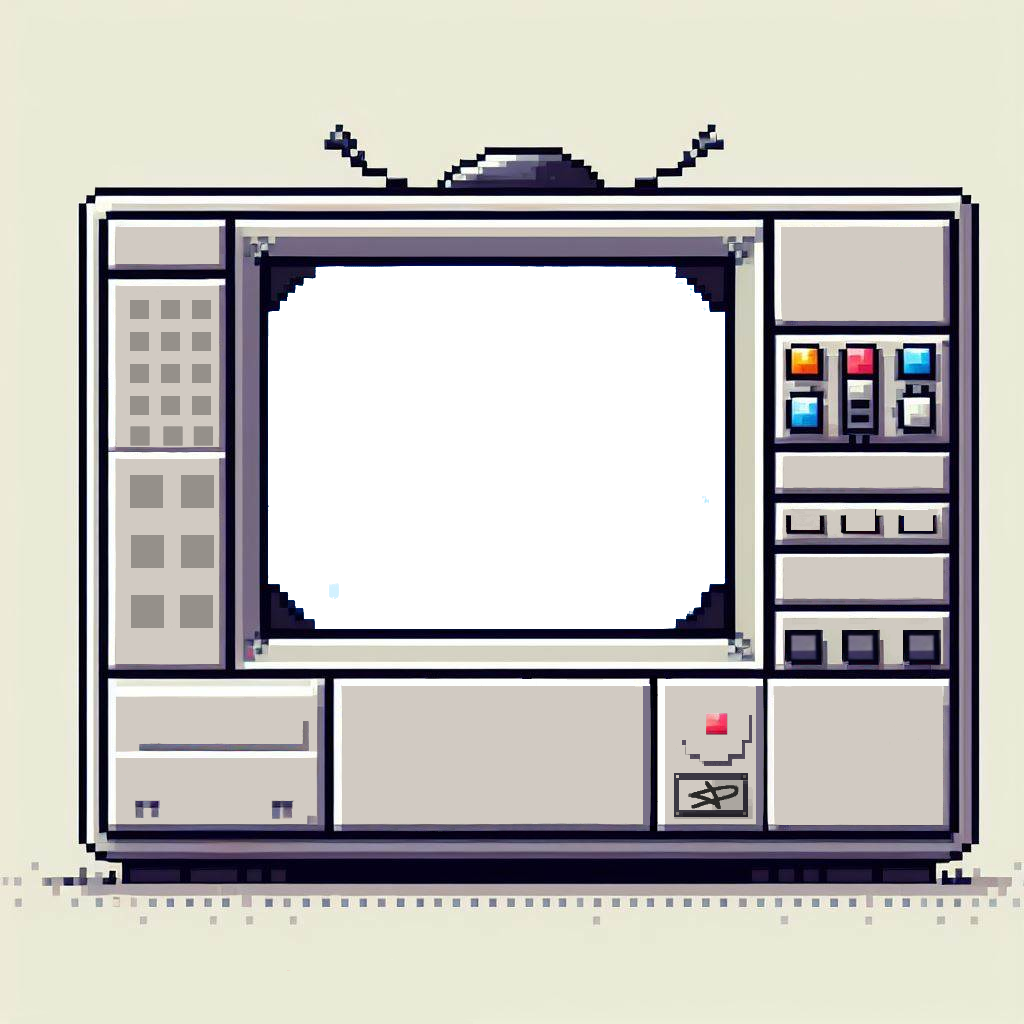
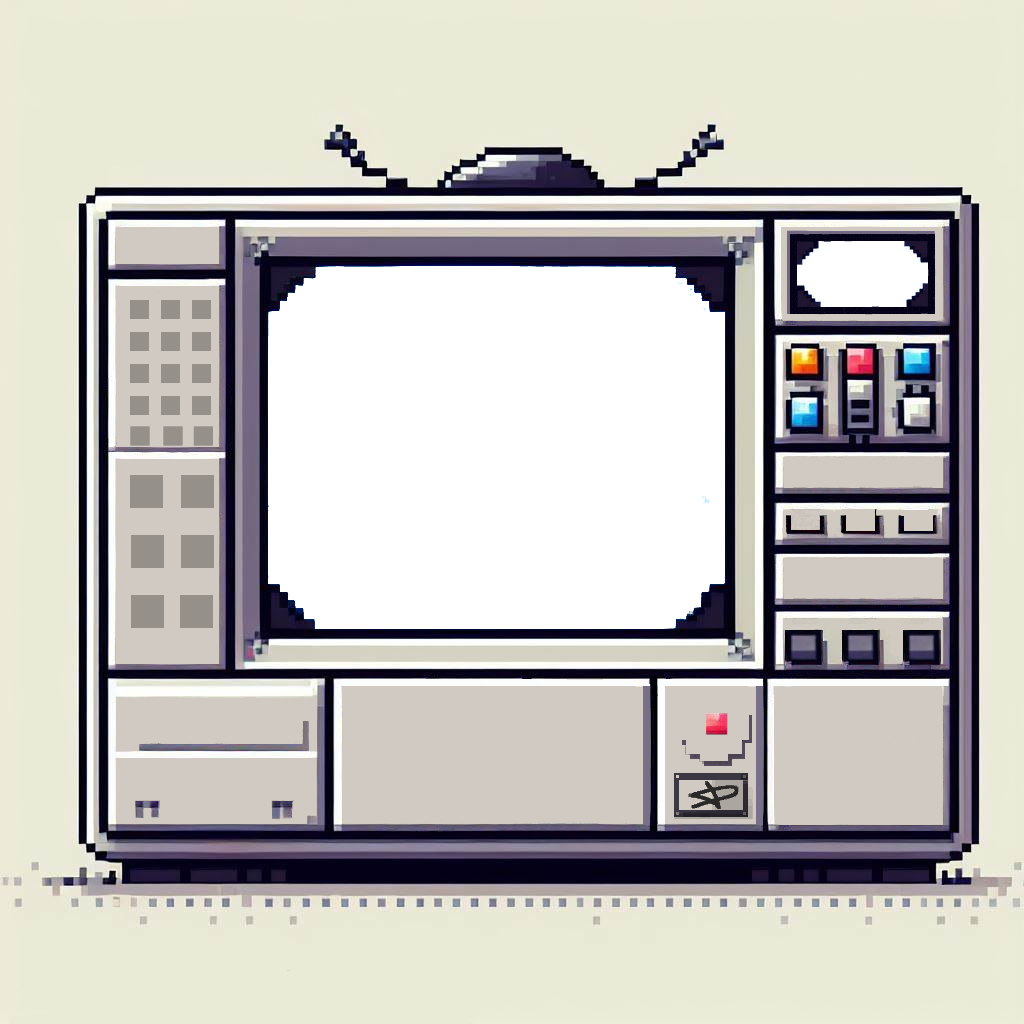
bugs solved : snake channel interference; glass filter snake interference. Added time panel top right(and style it, its done)

Changed region(s): [[0.75, 0.2188, 0.9375, 0.3125], [0.3125, 0.5625, 0.3438, 0.5938]]

diff --git a/js/script.js b/js/script.js
@@ -19,7 +19,7 @@ function Time() {
     DateTimeDiv.innerHTML = dt.toLocaleTimeString();
     console.log(dt.toLocaleTimeString())
 }
-
+DateTimeDiv.style.visibility = "Hidden"
 
 // set up volume bar ,
 let volumeLength
@@ -42,7 +42,7 @@ power.addEventListener("click", () => {
 
         volumeLength = 0
         screen.classList.add("whiteNoise")
-        DateTimeDiv.style.zIndex = "3"
+        DateTimeDiv.style.visibility = "visible"
 
 
     }
@@ -52,7 +52,7 @@ power.addEventListener("click", () => {
         document.getElementById("snake").style.visibility = "hidden"
         document.getElementById("snake").style.zIndex = "0"
 
-        DateTimeDiv.style.zIndex = "1"
+        DateTimeDiv.style.visibility = "Hidden"
 
         //this can be refactoriced on css
         console.log(screen.classList)
@@ -271,7 +271,7 @@ arrayButtons.map(
 
                             // show snake
                             document.getElementById("snake").style.visibility = "visible"
-                            document.getElementById("snake").style.zIndex = "1"
+
 
                         }
 
@@ -279,7 +279,7 @@ arrayButtons.map(
                         else {
                             document.getElementById("snakeLever").style.marginTop = ""
                             document.getElementById("snake").style.visibility = "hidden"
-                            document.getElementById("snake").style.zIndex = "0"
+
 
                             screen.classList.add("whiteNoise")
 

diff --git a/css/styles.css b/css/styles.css
@@ -33,23 +33,32 @@ body {
 }
 
 #dateTime {
-    top: 530px;
-    left: 581px;
+    top: 186px;
+    left: 590px;
     height: 50px;
     width: 80px;
     position: absolute;
-    z-index: 3;
+    z-index: 0;
     border-radius: 0;
-    font-size: 32px;
-    color: rgb(0, 88, 0);
+    font-size: 26px;
+    color: rgb(0, 70, 0);
     font-weight: bolder;
 }
 
-#dateTimeFilter {
-    z-index: 3;
+#screenTime {
+    z-index: -1;
     height: 80px;
     width: 100px;
-    top: 510px;
+    top: 160px;
+    left: 577px;
+    position: absolute;
+}
+
+#dateTimeFilter {
+    z-index: 1;
+    height: 80px;
+    width: 100px;
+    top: 160px;
     left: 577px;
     position: absolute;
     background-size: cover;
@@ -69,6 +78,7 @@ body {
 }
 
 #glassFilter {
+    z-index: 1;
     height: 275px;
     width: 343px;
     top: 185px;
@@ -98,7 +108,7 @@ body {
 }
 
 .basicScreen {
-    background-color: black;
+    background-color: rgb(135, 135, 135);
 }
 
 .button {
@@ -395,6 +405,6 @@ body {
     top: 200px;
     left: 193px;
     position: absolute;
-    z-index: 1;
+    z-index: 0;
 
 }

diff --git a/index.html b/index.html
@@ -22,6 +22,7 @@
 
         <div id="dateTime"></div>
         <div id="dateTimeFilter"></div>
+        <div id="screenTime" class="basicScreen"></div>
 
         <div class="buttonDiv">
             <div id="power" class="button"></div>
